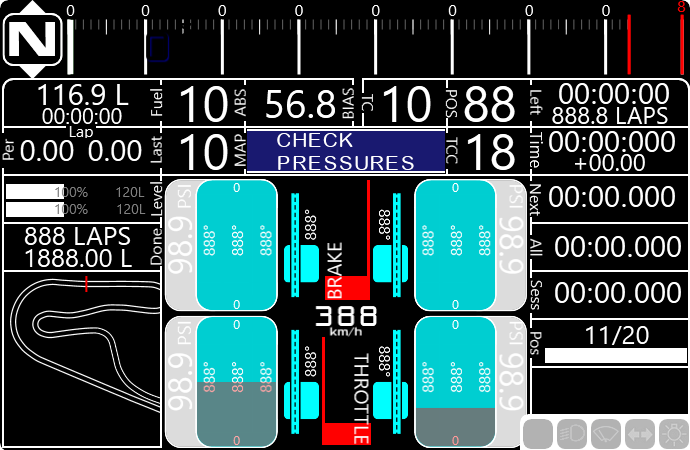
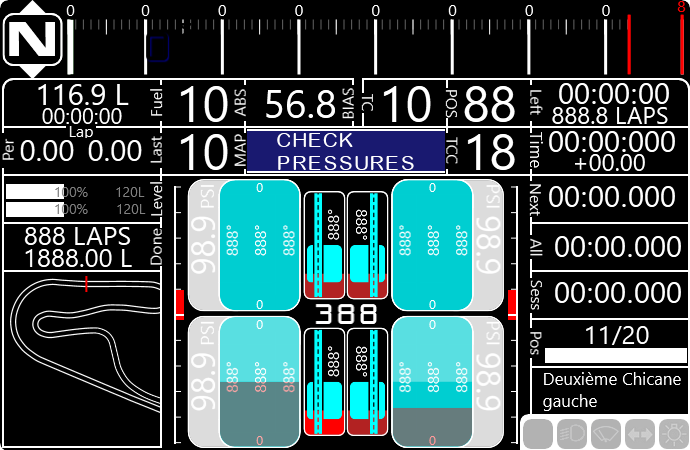
Spa and Monza: now showing names of turns

Changed region(s): [[0.213, 0.3733, 1.0, 0.9956]]

diff --git a/JavascriptExtensions/tracks.js b/JavascriptExtensions/tracks.js
@@ -1,23 +1,76 @@
 
 // Turns names
 
+
 root.track = new Object();
     // TrackPos%        Name
 root.track['Spa'] = {
+    0: 'start',
     0.03:  'La Source',
-    0.09:  'Le Raidillon',
+    0.07:  ' ',
+    0.13:  'Le Raidillon',
+    0.19:  ' ',
     0.21:  'Le Kemmel',
+    0.26:  ' ',
     0.32:  'Les Combes',
-    0.42:  'Bruxelles',
+    0.38:  ' ',
+    0.41:  'Bruxelles',
     0.46:  'Speakers Corner',
-    0.53:  'Double gauche du Pouhon',
+    0.49:  ' ',
+    0.52:  'Double gauche du Pouhon',
+    0.60:  ' ',
     0.62:  'Fagnes',
+    0.68:  ' ',
     0.69:  'Campus',
     0.72:  'La Courbe Paul Frère',
     0.83:  'Blanchimont',
+    0.90:  ' ',
     0.94:  'La Chicane',
+    0.98:  ' ',
 };
 
-root.track['misano'] = {
+root.track['monza'] = {
+    0: 'start',
+    0.09: ' ',
+    0.14: 'Première Chicane droite',
+    0.16: 'Première Chicane gauche',
+    0.19: 'Biassono',
+    0.31: ' ',
+    0.34: 'Deuxième Chicane gauche',
+    0.37: 'Deuxième Chicane droite',
+    0.39: ' ',
+    0.42: '1st Lesmo',
+    0.46: ' ',
+    0.48: '2nd Lesmo',
+    0.51: ' ',
+    0.55: 'Serraglio',
+    0.61: ' ',
+    0.66: 'Entrée Ascari',
+    0.68: 'Ascari',
+    0.71: 'Sortie Ascari',
+    0.75: ' ',
+    0.87: 'Parabole'
     
 };
+
+/*root.track['misano'] = {
+    
+};*/
+
+function getTurnName() {
+    let track = $prop('DataCorePlugin.GameData.TrackId');
+    let trackPos = $prop('DataCorePlugin.GameData.TrackPositionPercent');
+    let turn = '';
+    
+    if (root.track[track] != undefined || root.track[track] != null) {
+        for (let pos in root.track[track]) {
+            if (trackPos >=  pos) turn = root.track[track][pos];
+            if (turn != '' && trackPos < pos) break;
+        }
+    }
+    
+    return turn;
+}
+
+
+
